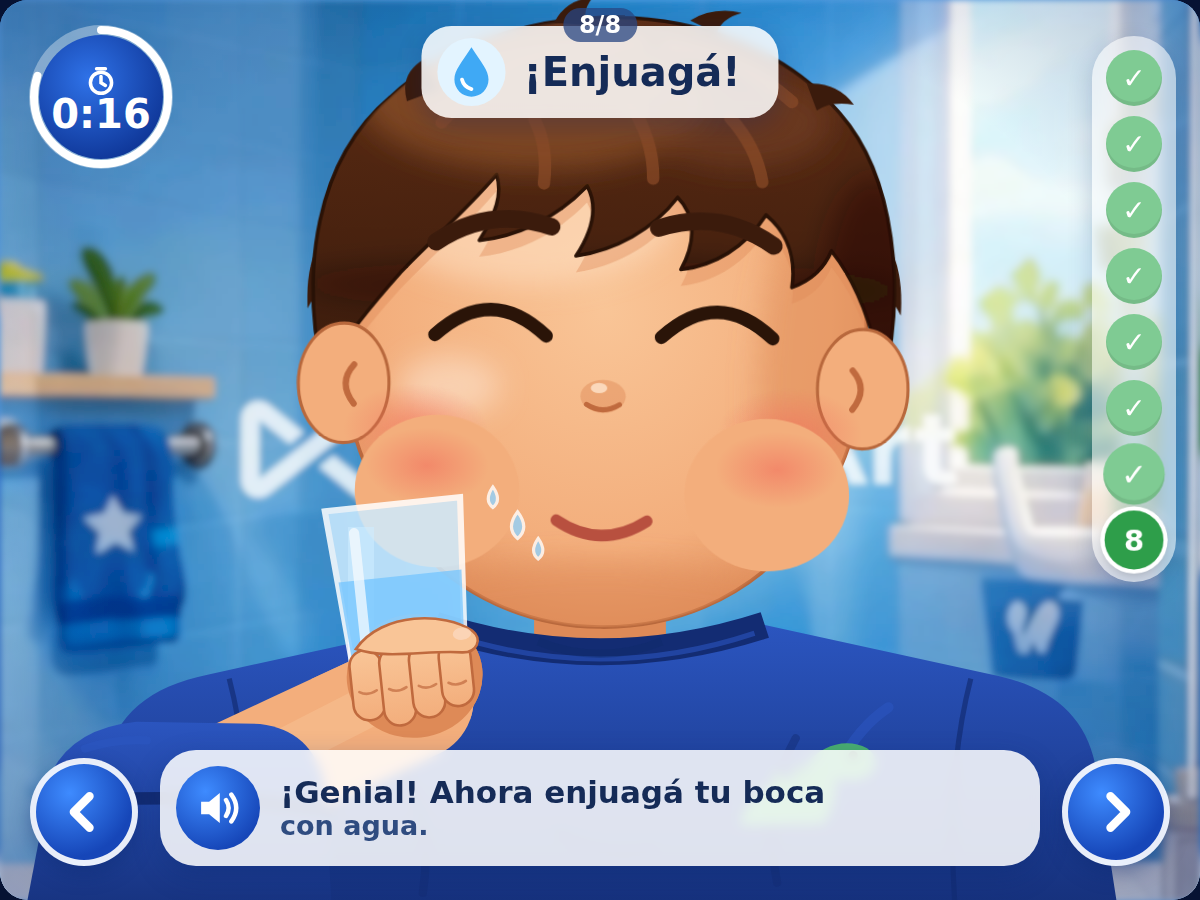
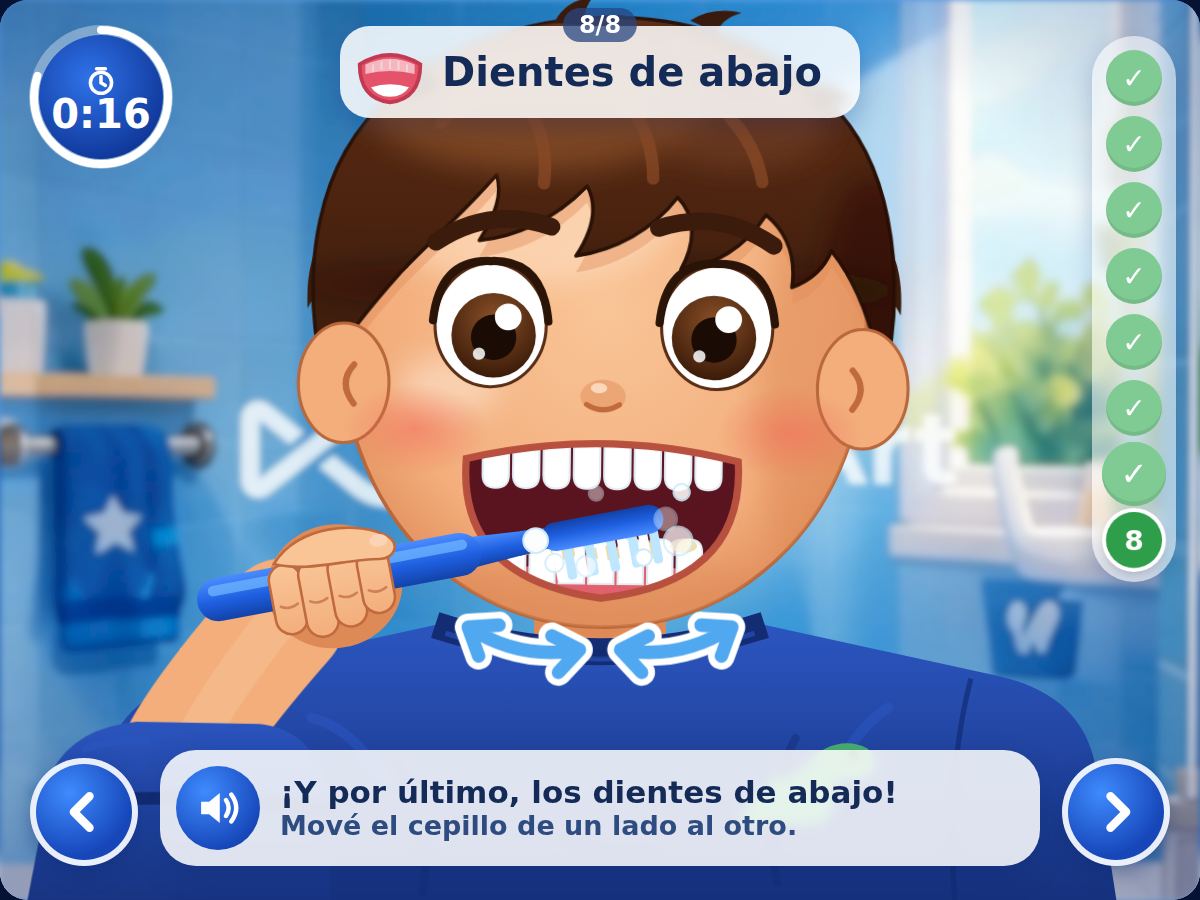
Nuevo orden de los 8 pasos
Dientes de adelante, muelas de arriba (y del otro lado), muelas de abajo
(y del otro lado), bolsillos (y del otro lado) y dientes de abajo. Cada
paso tiene su posición de cepillo, flechas y sarro; el enjuague deja de
ser un paso. Los videos se nombran por el id del paso: el de PixVerse
pasa a dientes-abajo (paso 8).

Claude-Session: https://claude.ai/code/session_01CqgnvX7pNUGeMm5RY4B4eg

diff --git a/juego/index.html b/juego/index.html
@@ -219,22 +219,22 @@
      boca:    'abierta' | 'dientes' (mordida, cara de adelante) | 'enjuague'
      ===================================================================== */
   var PASOS = [
-    { nombre: 'Dientes de arriba', icono: 'arriba', boca: 'abierta', cabezal: [770, 566], angulo: -10, abajo: false, mov: 'lado',
-      l1: '¡Cepillá los dientes de arriba!', l2: 'Con movimientos de lado a lado.' },
-    { nombre: 'Dientes de abajo', icono: 'abajo', boca: 'abierta', cabezal: [770, 604], angulo: -12, abajo: true, mov: 'lado',
-      l1: '¡Ahora los dientes de abajo!', l2: 'Mové el cepillo de un lado al otro.' },
-    { nombre: 'Parte de adelante', icono: 'adelante', boca: 'dientes', cabezal: [770, 590], angulo: -8, abajo: false, mov: 'vertical',
-      l1: '¡La parte de adelante!', l2: 'Mové el cepillo de arriba hacia abajo.' },
-    { nombre: 'Parte de atrás (arriba)', icono: 'arriba', boca: 'abierta', cabezal: [830, 570], angulo: -18, abajo: false, mov: 'eje',
-      l1: '¡Los dientes de atrás de arriba!', l2: 'Mové el cepillo de adelante hacia atrás.' },
-    { nombre: 'Parte de atrás (abajo)', icono: 'abajo', boca: 'abierta', cabezal: [830, 602], angulo: -20, abajo: true, mov: 'eje',
-      l1: '¡Ahora los dientes de atrás de abajo!', l2: 'Mové el cepillo de adelante hacia atrás.' },
-    { nombre: 'Molares (arriba)', icono: 'arriba', boca: 'abierta', cabezal: [856, 566], angulo: -6, abajo: false, mov: 'circulo',
-      l1: '¡Los molares de arriba!', l2: 'Hacé movimientos circulares.' },
-    { nombre: 'Molares (abajo)', icono: 'abajo', boca: 'abierta', cabezal: [856, 604], angulo: -8, abajo: true, mov: 'circulo',
-      l1: '¡Los molares de abajo!', l2: 'Hacé movimientos circulares.' },
-    { nombre: '¡Enjuagá!', icono: 'agua', boca: 'enjuague', mov: 'ninguno',
-      l1: '¡Genial! Ahora enjuagá tu boca', l2: 'con agua.' }
+    { id: 'dientes-adelante', nombre: 'Dientes de adelante', icono: 'adelante', boca: 'dientes', cabezal: [770, 590], angulo: -8, abajo: false, mov: 'vertical', sarro: 'adelante',
+      l1: '¡Primero, los dientes de adelante!', l2: 'Mové el cepillo de arriba hacia abajo.' },
+    { id: 'muelas-arriba', nombre: 'Muelas de arriba', icono: 'arriba', boca: 'abierta', cabezal: [856, 566], angulo: -6, abajo: false, mov: 'circulo', sarro: 'muelasArribaDer',
+      l1: '¡Ahora las muelas de arriba!', l2: 'Hacé circulitos en las muelas de este lado.' },
+    { id: 'muelas-arriba-otro-lado', nombre: 'Muelas de arriba (otro lado)', icono: 'arriba', boca: 'abierta', cabezal: [742, 566], angulo: -12, abajo: false, mov: 'circulo', sarro: 'muelasArribaIzq',
+      l1: '¡Las muelas de arriba del otro lado!', l2: 'Pasá el cepillo al otro lado y hacé circulitos.' },
+    { id: 'muelas-abajo', nombre: 'Muelas de abajo', icono: 'abajo', boca: 'abierta', cabezal: [856, 604], angulo: -8, abajo: true, mov: 'circulo', sarro: 'muelasAbajoDer',
+      l1: '¡Ahora las muelas de abajo!', l2: 'Hacé circulitos en las muelas de este lado.' },
+    { id: 'muelas-abajo-otro-lado', nombre: 'Muelas de abajo (otro lado)', icono: 'abajo', boca: 'abierta', cabezal: [742, 604], angulo: -14, abajo: true, mov: 'circulo', sarro: 'muelasAbajoIzq',
+      l1: '¡Las muelas de abajo del otro lado!', l2: 'Pasá el cepillo al otro lado y hacé circulitos.' },
+    { id: 'bolsillos', nombre: 'Bolsillos', icono: 'adelante', boca: 'dientes', cabezal: [872, 590], angulo: -4, abajo: false, mov: 'circulo', sarro: 'bolsilloDer',
+      l1: '¡Los bolsillos! Los dientes del costado.', l2: 'Cepillá pegado al cachete, con circulitos.' },
+    { id: 'bolsillos-otro-lado', nombre: 'Bolsillos (otro lado)', icono: 'adelante', boca: 'dientes', cabezal: [724, 590], angulo: -10, abajo: false, mov: 'circulo', sarro: 'bolsilloIzq',
+      l1: '¡Los bolsillos del otro lado!', l2: 'Ahora pegado al otro cachete, con circulitos.' },
+    { id: 'dientes-abajo', nombre: 'Dientes de abajo', icono: 'abajo', boca: 'abierta', cabezal: [770, 604], angulo: -12, abajo: true, mov: 'lado', sarro: 'abajo',
+      l1: '¡Y por último, los dientes de abajo!', l2: 'Mové el cepillo de un lado al otro.' }
   ];
   var SEGUNDOS_POR_PASO = 20;
   var HZ_CEPILLADO = 2;
@@ -777,7 +777,7 @@
   }
 
   function irAPaso(i) {
-    ponerVideo($('video-paso'), 'paso' + (i + 1), $('svg-paso'), '.fondo, #nino');
+    ponerVideo($('video-paso'), PASOS[i].id, $('svg-paso'), '.fondo, #nino');
     estado.paso = i; estado.tiempo = 0; estado.completado = false;
     var p = PASOS[i], svg = $('svg-paso');
     $('paso-contador').textContent = (i + 1) + '/' + PASOS.length;
@@ -811,20 +811,20 @@
 
   // Manchitas de sarro que se van limpiando con el tiempo del paso.
   var ZONAS_SARRO = {
-    arriba: [[712, 552], [748, 558], [790, 560], [834, 558], [876, 552], [770, 546]],
     abajo: [[726, 626], [764, 628], [806, 630], [848, 626], [880, 622]],
     adelante: [[716, 574], [770, 580], [834, 578], [884, 572], [746, 614], [812, 618], [866, 612]],
-    atrasArriba: [[840, 556], [872, 552], [898, 546], [856, 566]],
-    atrasAbajo: [[842, 630], [870, 628], [892, 624], [858, 622]],
-    molaresArriba: [[870, 552], [894, 548], [908, 556], [882, 562]],
-    molaresAbajo: [[868, 628], [888, 624], [904, 620], [880, 634]]
+    muelasArribaDer: [[870, 552], [894, 548], [908, 556], [882, 562]],
+    muelasArribaIzq: [[730, 552], [706, 548], [692, 556], [718, 562]],
+    muelasAbajoDer: [[868, 628], [888, 624], [904, 620], [880, 634]],
+    muelasAbajoIzq: [[732, 628], [712, 624], [696, 620], [720, 634]],
+    bolsilloDer: [[884, 566], [904, 578], [880, 610], [900, 606]],
+    bolsilloIzq: [[716, 566], [696, 578], [720, 610], [700, 606]]
   };
-  var SARRO_POR_PASO = ['arriba', 'abajo', 'adelante', 'atrasArriba', 'atrasAbajo', 'molaresArriba', 'molaresAbajo', null];
 
   function dibujarSarro(svg, p) {
     svg.querySelector('#sarro-abierta').innerHTML = '';
     svg.querySelector('#sarro-dientes').innerHTML = '';
-    var zona = SARRO_POR_PASO[estado.paso];
+    var zona = p.sarro;
     if (!zona) return;
     var destino = svg.querySelector(p.boca === 'dientes' ? '#sarro-dientes' : '#sarro-abierta');
     destino.innerHTML = ZONAS_SARRO[zona].map(function (m, i) {
@@ -867,7 +867,7 @@
       var cx = p.cabezal[0] + 20, cy = p.abajo ? 722 : 506;
       s = flechaCurva(cx - 80 * ca, cy - 80 * sa, cx + 80 * ca, cy + 80 * sa, p.abajo ? 16 : -16);
     } else if (p.mov === 'circulo') {
-      s = flechaCircular(p.cabezal[0] + 66, p.cabezal[1] + (p.abajo ? 30 : -16), 58);
+      s = flechaCircular(p.cabezal[0] + (p.cabezal[0] < 800 ? -46 : 66), p.cabezal[1] + (p.abajo ? 30 : -16), 58);
     }
     svg.querySelector('#guias').innerHTML = s;
   }

diff --git a/juego/README.md b/juego/README.md
@@ -9,7 +9,7 @@ El estilo sigue el video de referencia: formato 4:3, piel cálida, pelo castaño
 ## Flujo
 1. **Inicio**: título, «¡Vamos a cepillarnos paso a paso!» y botón **Comenzar**.
 1. **Tu misión**: Superdiente (muela con capa roja, aura dorada y haz de luz) saluda y pide «¡Agarrá tu cepillo de dientes para empezar!». Al tocar el cepillo (o la flecha), vuela hacia la mano del niño y empieza el paso 1.
-2. **8 pasos de 20 s** cada uno: dientes de arriba, de abajo, parte de adelante, parte de atrás (arriba y abajo), molares (arriba y abajo) y enjuague.
+2. **8 pasos de 20 s** cada uno: dientes de adelante, muelas de arriba, muelas de arriba del otro lado, muelas de abajo, muelas de abajo del otro lado, bolsillos (dientes del costado), bolsillos del otro lado y dientes de abajo.
    - Reloj circular, píldora «n/8» con el nombre del paso, lista vertical de progreso y flechas ‹ ›.
    - Consigna con botón de altavoz: se lee en voz alta (voz del navegador, `es-AR`).
    - El cepillo se mueve como indica el paso (lado a lado, arriba-abajo, adelante-atrás o en círculos) y hay flechas guía que laten.
@@ -36,6 +36,6 @@ El proyecto ya está creado en la cuenta de SVGator («Superdiente — Misión: 
 
 ## Videos por escena (formato del video de referencia)
 
-Si existe `recursos/videos/<escena>.mp4` (o `.webm`), el juego lo reproduce en bucle debajo de la interfaz y oculta el dibujo; si no existe, se usa el dibujo animado. Nombres: `mision`, `paso1` … `paso8`. Pensado para clips de 5 s generados con PixVerse V6 (OpenArt) a partir de las capturas del juego.
+Si existe `recursos/videos/<escena>.mp4` (o `.webm`), el juego lo reproduce en bucle debajo de la interfaz y oculta el dibujo; si no existe, se usa el dibujo animado. Nombres: `mision` y el `id` de cada paso: `dientes-adelante`, `muelas-arriba`, `muelas-arriba-otro-lado`, `muelas-abajo`, `muelas-abajo-otro-lado`, `bolsillos`, `bolsillos-otro-lado`, `dientes-abajo`. Pensado para clips de 5 s generados con PixVerse V6 (OpenArt) a partir de las capturas del juego.
 
-Por ahora están integrados los dos videos de referencia tal como vinieron: `paso2` (PixVerse, «Dientes de abajo») y `mision` (DomoAI, Superdiente). Traen su propia interfaz y marca de agua dibujadas; la interfaz del juego va encima.
+Por ahora están integrados los dos videos de referencia tal como vinieron: `dientes-abajo` (PixVerse, paso 8) y `mision` (DomoAI, Superdiente). Traen su propia interfaz y marca de agua dibujadas; la interfaz del juego va encima.
